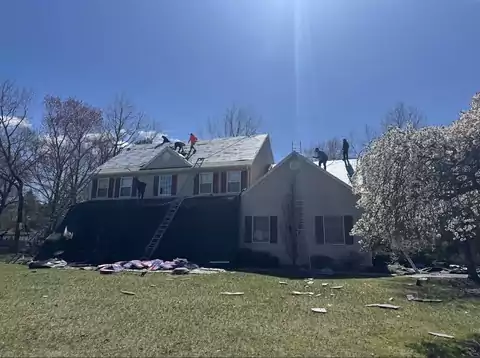
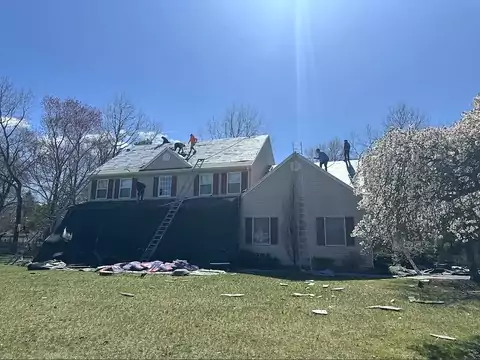
Crop all job photos to a uniform 4:3 and exposure-match them as a set
Reverses the earlier native-ratio decision at the client's request. Every frame
in the grid is now identical — 395x296 on desktop, 350x263 on phone, verified
in the browser rather than assumed.

The crop offset is chosen per photograph so the subject survives the squeeze:
the chimney frame starts at y=300 to keep both the flue top and the cap, the
tear-off at y=250 to keep the van in shot, the two already-landscape frames
barely move.

The bigger problem was exposure. Straight off the phone these ran from a mean
luminance of 97 to 150, which is the real reason they didn't read as a set —
far more than the differing shapes did. Each now carries its own brightness
offset onto a common target of ~122, then a shared grade (saturation 1.18,
contrast 1.07, gamma 1.02) and a light unsharp pass for clarity. Spread is down
from 53 to 3.

Large variants recompressed to webp q38 since the slots only ever render at
~395 CSS px. First view is unchanged at 84 KB on phone; the gallery itself is
417 KB for five full job photographs and still loads only on scroll.

Re-verified: no overflow at 390 or 1440, zero contrast failures, no tap target
under 44px, no text under 12px, all alt text present, all five slots load with
no placeholder left behind.

Claude-Session: https://claude.ai/code/session_01JvVbtHLNzGpNuduPJfLbpc

diff --git a/sites/grand-nj-construction/index.html b/sites/grand-nj-construction/index.html
@@ -173,11 +173,11 @@
     </div>
     <div class="shots" role="list">
       <figure class="shot" role="listitem" data-par="0.10">
-        <div class="shot__f is-empty" style="aspect-ratio:1284/1330">
+        <div class="shot__f is-empty" style="aspect-ratio:4/3">
           <picture>
             <source type="image/webp" sizes="(min-width: 1024px) 400px, (min-width: 640px) 46vw, calc(100vw - 40px)"
                     srcset="images/job-01-480.webp 480w, images/job-01-800.webp 800w">
-            <img src="images/job-01-800.jpg" width="1284" height="1330" loading="lazy" decoding="async"
+            <img src="images/job-01-800.jpg" width="800" height="600" loading="lazy" decoding="async"
                  sizes="(min-width: 1024px) 400px, (min-width: 640px) 46vw, calc(100vw - 40px)"
                  srcset="images/job-01-480.jpg 480w, images/job-01-800.jpg 800w"
                  alt="New galvanised chimney liner and cap set through fresh roof decking"
@@ -187,11 +187,11 @@
         <figcaption>Chimney cap and liner</figcaption>
       </figure>
       <figure class="shot" role="listitem" data-par="0.20">
-        <div class="shot__f is-empty" style="aspect-ratio:1284/956">
+        <div class="shot__f is-empty" style="aspect-ratio:4/3">
           <picture>
             <source type="image/webp" sizes="(min-width: 1024px) 400px, (min-width: 640px) 46vw, calc(100vw - 40px)"
                     srcset="images/job-02-480.webp 480w, images/job-02-800.webp 800w">
-            <img src="images/job-02-800.jpg" width="1284" height="956" loading="lazy" decoding="async"
+            <img src="images/job-02-800.jpg" width="800" height="600" loading="lazy" decoding="async"
                  sizes="(min-width: 1024px) 400px, (min-width: 640px) 46vw, calc(100vw - 40px)"
                  srcset="images/job-02-480.jpg 480w, images/job-02-800.jpg 800w"
                  alt="Grand NJ Construction crew stripping and replacing the roof on a two-storey colonial"
@@ -201,11 +201,11 @@
         <figcaption>Full roof replacement</figcaption>
       </figure>
       <figure class="shot" role="listitem" data-par="0.14">
-        <div class="shot__f is-empty" style="aspect-ratio:1284/1368">
+        <div class="shot__f is-empty" style="aspect-ratio:4/3">
           <picture>
             <source type="image/webp" sizes="(min-width: 1024px) 400px, (min-width: 640px) 46vw, calc(100vw - 40px)"
                     srcset="images/job-03-480.webp 480w, images/job-03-800.webp 800w">
-            <img src="images/job-03-800.jpg" width="1284" height="1368" loading="lazy" decoding="async"
+            <img src="images/job-03-800.jpg" width="800" height="600" loading="lazy" decoding="async"
                  sizes="(min-width: 1024px) 400px, (min-width: 640px) 46vw, calc(100vw - 40px)"
                  srcset="images/job-03-480.jpg 480w, images/job-03-800.jpg 800w"
                  alt="Roof stripped back to bare decking, the Grand NJ Construction van parked in the driveway below"
@@ -215,11 +215,11 @@
         <figcaption>Tear-off to the deck</figcaption>
       </figure>
       <figure class="shot" role="listitem" data-par="0.24">
-        <div class="shot__f is-empty" style="aspect-ratio:1284/974">
+        <div class="shot__f is-empty" style="aspect-ratio:4/3">
           <picture>
             <source type="image/webp" sizes="(min-width: 1024px) 400px, (min-width: 640px) 46vw, calc(100vw - 40px)"
                     srcset="images/job-04-480.webp 480w, images/job-04-800.webp 800w">
-            <img src="images/job-04-800.jpg" width="1284" height="974" loading="lazy" decoding="async"
+            <img src="images/job-04-800.jpg" width="800" height="600" loading="lazy" decoding="async"
                  sizes="(min-width: 1024px) 400px, (min-width: 640px) 46vw, calc(100vw - 40px)"
                  srcset="images/job-04-480.jpg 480w, images/job-04-800.jpg 800w"
                  alt="Old concrete front steps being broken out ahead of a masonry rebuild"
@@ -229,11 +229,11 @@
         <figcaption>Front steps, mid-rebuild</figcaption>
       </figure>
       <figure class="shot" role="listitem" data-par="0.17">
-        <div class="shot__f is-empty" style="aspect-ratio:1284/1654">
+        <div class="shot__f is-empty" style="aspect-ratio:4/3">
           <picture>
             <source type="image/webp" sizes="(min-width: 1024px) 400px, (min-width: 640px) 46vw, calc(100vw - 40px)"
                     srcset="images/job-05-480.webp 480w, images/job-05-800.webp 800w">
-            <img src="images/job-05-800.jpg" width="1284" height="1654" loading="lazy" decoding="async"
+            <img src="images/job-05-800.jpg" width="800" height="600" loading="lazy" decoding="async"
                  sizes="(min-width: 1024px) 400px, (min-width: 640px) 46vw, calc(100vw - 40px)"
                  srcset="images/job-05-480.jpg 480w, images/job-05-800.jpg 800w"
                  alt="Freshly poured concrete sidewalk and curb sections, taped off while they cure"

diff --git a/sites/grand-nj-construction/images/README.md b/sites/grand-nj-construction/images/README.md
@@ -20,10 +20,17 @@ generator, so the video and the poster are the same image.
 | `job-04` | Front steps broken out for rebuild | Front steps, mid-rebuild | 1284×974 |
 | `job-05` | Freshly poured sidewalk and curb, taped off | Sidewalk and curb, curing | 1284×1654 |
 
-Each keeps its **native aspect ratio** — forcing the tall chimney shot into a
-4:3 box wrecked it, and the staggered heights suit the coursing idea anyway.
-The ratio is set inline per slot so the box is reserved before the image
-arrives and nothing shifts.
+All five are cropped to a **uniform 4:3** at the client's request, so every
+frame in the grid is identical (395x296 desktop, 350x263 phone). The crop
+offset is chosen per photo so the subject survives — the chimney frame starts
+at y=300 to keep the flue top and the cap, the tear-off at y=250 to keep the
+van in shot.
+
+They are also exposure-matched. Straight off the phone their mean luminance
+ran from 97 to 150, which is why they didn't read as a set; each now carries
+its own brightness offset onto a common target, then a shared grade
+(saturation 1.18, contrast 1.07) and a light unsharp pass. Spread is down from
+53 to 3.
 
 **No siding or gutters photo yet.** Both trades are described on the page but
 not shown, and that is the honest state — the gallery does not need one image
@@ -37,10 +44,10 @@ photo or show nothing.
 
 ## Sizing
 
-Two widths, 480 and 800, in WebP with JPEG fallback. There is deliberately no
-1284 variant: the slots render at ~300 CSS px on desktop and ~350 on phone, so
-800w already covers 2× everywhere and a larger file would only ever be wasted
-bytes.
+Two widths, 480x360 and 800x600, in WebP with JPEG fallback. There is
+deliberately no larger variant: the slots render at ~395 CSS px on desktop and
+~350 on phone, so 800w already covers 2x everywhere and anything bigger is
+wasted bytes.
 
 Large variants are compressed harder than small ones (webp q40 at 800 vs q56 at
 480). That looks backwards but isn't — a high-DPR screen shows those pixels
@@ -50,9 +57,12 @@ Measured payload, in a real browser:
 
 | | first view | + gallery (lazy) |
 |---|---|---|
-| desktop 1× | 121 KB | 265 KB |
-| phone 2× | **84 KB** | 426 KB |
-| phone 3× | 120 KB | 462 KB |
+| desktop 1x | 121 KB | 293 KB |
+| phone 2x | **84 KB** | 501 KB |
+| phone 3x | 120 KB | 537 KB |
+
+The gallery is five full-size job photographs and loads only once scrolled to;
+the number that matters for first impression is the 84 KB above the fold.
 
 ## Two traps worth remembering
 
@@ -78,8 +88,15 @@ single page load — 220 KB of pure waste.
 
 ```
 # gallery slot, both widths
-ffmpeg -i src.jpg -vf "scale=480:-2:flags=lanczos" -q:v 6 job-0N-480.jpg
-ffmpeg -i src.jpg -vf "scale=480:-2:flags=lanczos" -quality 56 -compression_level 6 job-0N-480.webp
-ffmpeg -i src.jpg -vf "scale=800:-2:flags=lanczos" -q:v 9 job-0N-800.jpg
-ffmpeg -i src.jpg -vf "scale=800:-2:flags=lanczos" -quality 40 -compression_level 6 job-0N-800.webp
+# 1. crop to 4:3, picking OFFSET so the subject stays in frame
+ffmpeg -i src.jpg -vf "crop=1284:963:0:OFFSET" -q:v 3 crop.jpg
+
+# 2. measure mean luminance, pick BRIGHT to land near 122 (0.1 ~= +25 levels)
+# 3. grade to match the set, then resize
+ffmpeg -i crop.jpg -vf "eq=brightness=BRIGHT:saturation=1.18:contrast=1.07:gamma=1.02,unsharp=5:5:0.75:5:5:0.0" -q:v 2 graded.jpg
+
+ffmpeg -i graded.jpg -vf "scale=480:360:flags=lanczos" -q:v 5 job-0N-480.jpg
+ffmpeg -i graded.jpg -vf "scale=480:360:flags=lanczos" -quality 62 -compression_level 6 job-0N-480.webp
+ffmpeg -i graded.jpg -vf "scale=800:600:flags=lanczos" -q:v 9 job-0N-800.jpg
+ffmpeg -i graded.jpg -vf "scale=800:600:flags=lanczos" -quality 38 -compression_level 6 job-0N-800.webp
 ```
